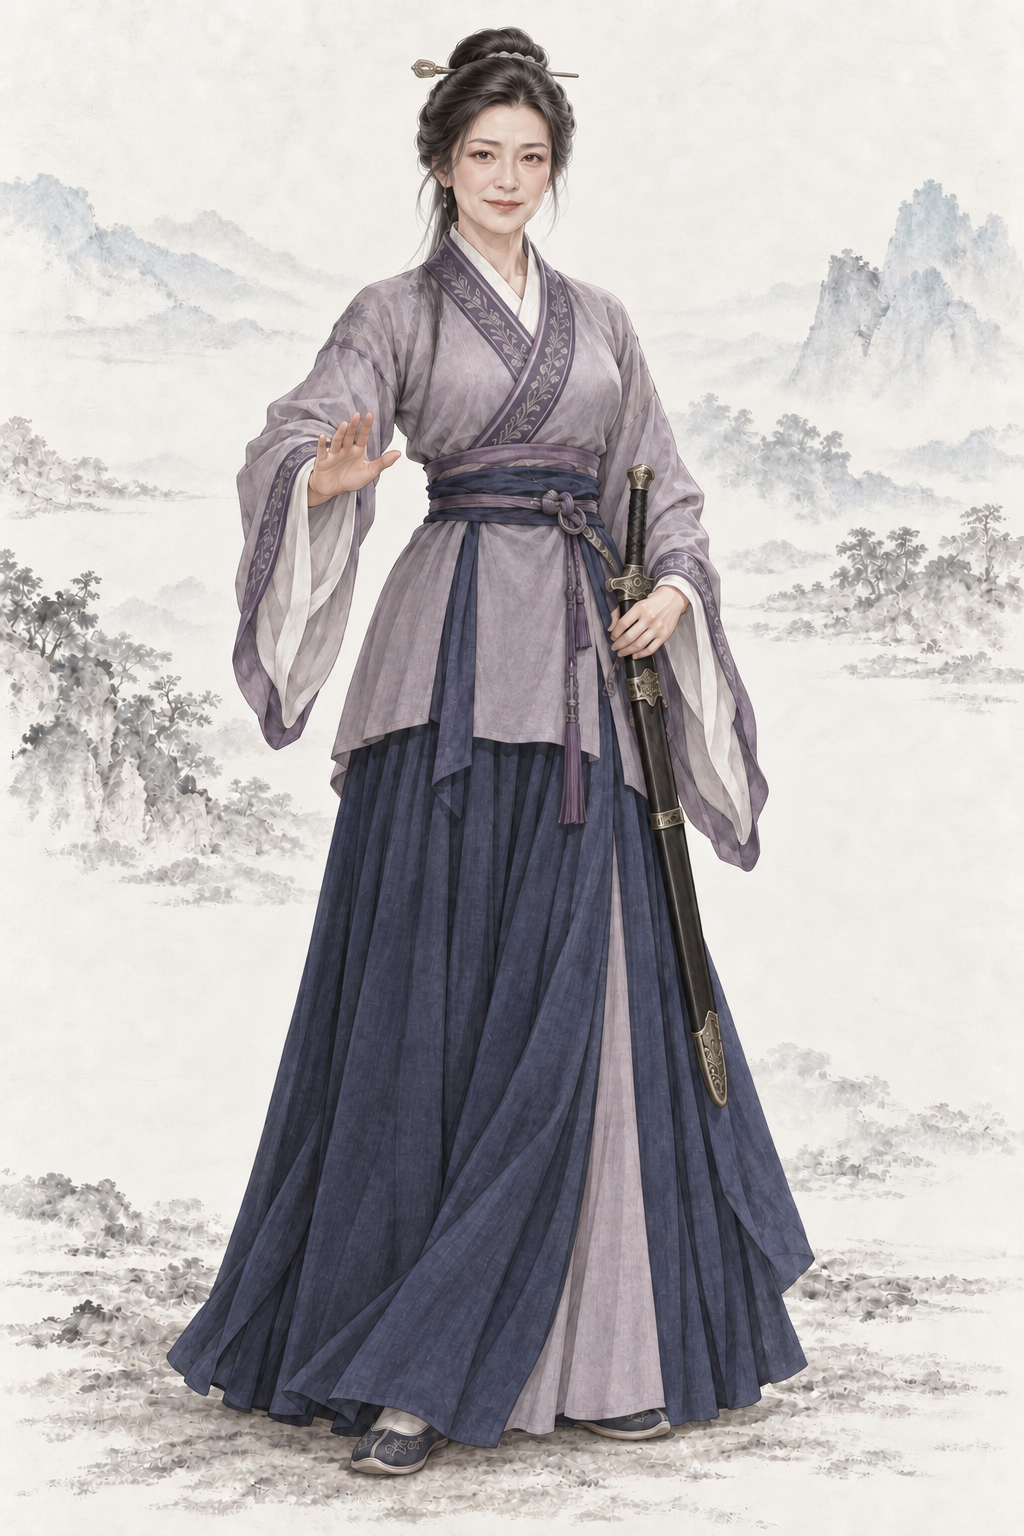
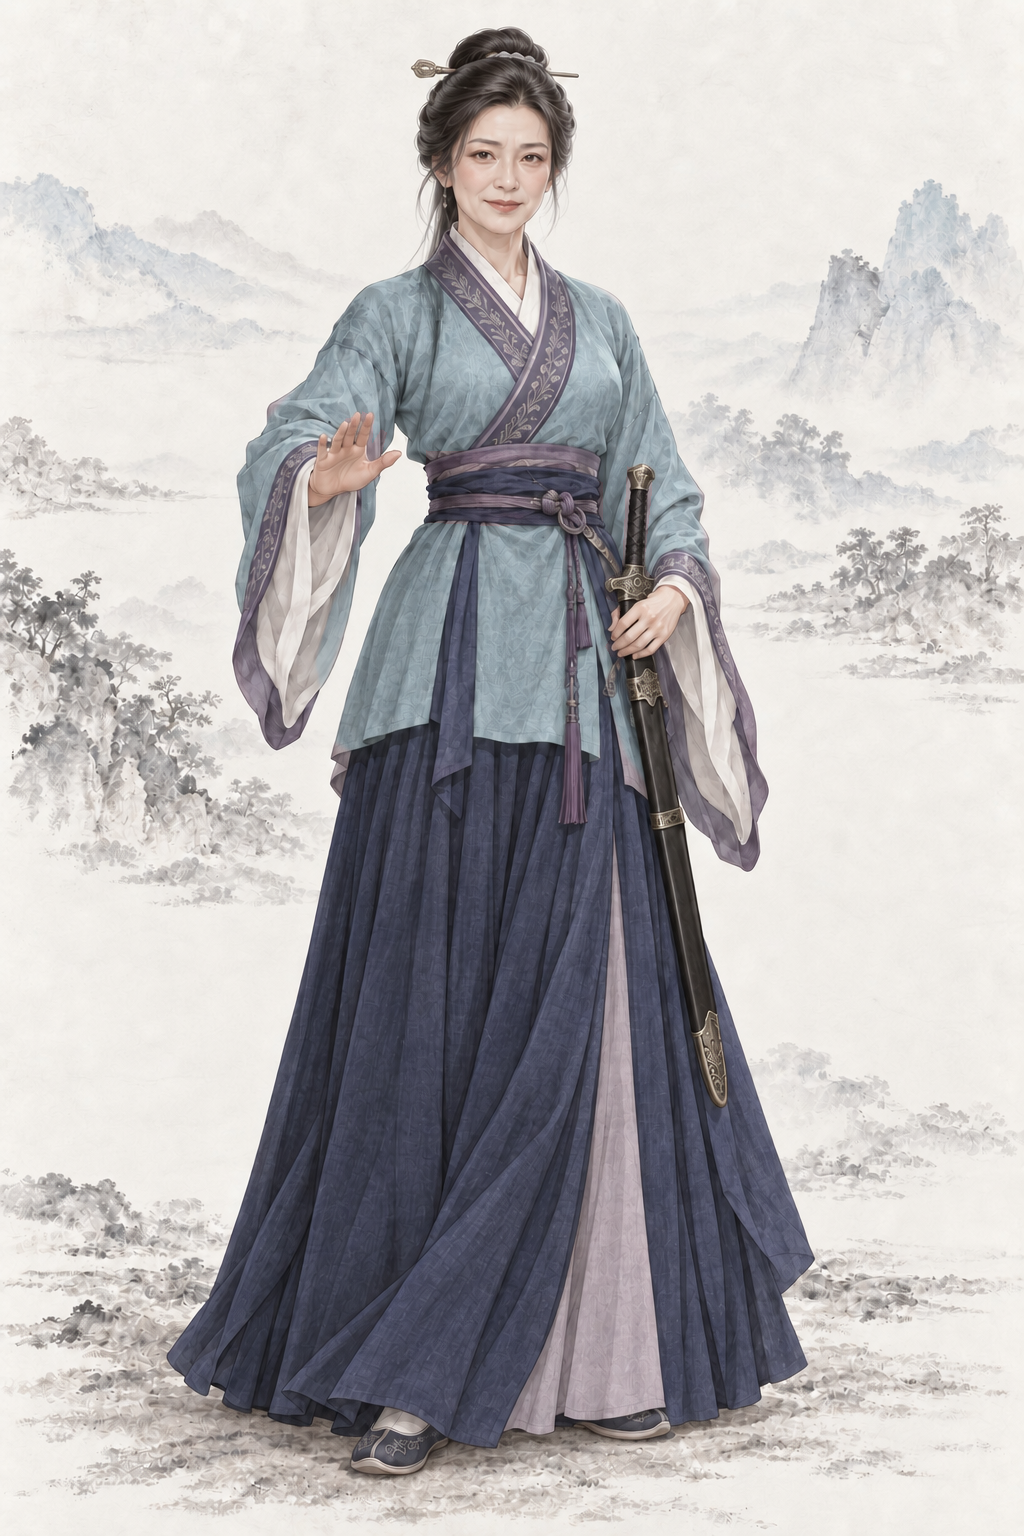
assets: AR-82 原著核对返修 宁中则华山行剑阶段上衣改素青
宁中则华山行剑阶段上衣改素青；原著摘句已同步提示词；蒙版外变化0像素。

Executed-By: Codex gpt-6.1-sol（AR-82）

diff --git a/assets/default/prompts/characters/ch05-xiaoao/npc_ningzhongze.md b/assets/default/prompts/characters/ch05-xiaoao/npc_ningzhongze.md
@@ -19,6 +19,12 @@ realism_revision: user_identity_pose_20261001
 
 # 宁中则 · 人物写实修正
 
+## AR-82 当前定稿要求
+
+只将上身温灰紫上衣的布料主色改为素青色（柔和青蓝）；衣形、衣缘、褶皱、腰带、下裙、剑、双手、头脸与发髻保持原样。对应健在华山行剑基础阶段的青衫，不声称全书从不换衣。
+
+以上为当前原著核对后的要求，覆盖下文旧版中与之冲突的服饰、器物、伤残、光线和体态描述。
+
 ## 人物与阶段
 
 - subject_id：npc_ningzhongze
@@ -74,3 +80,8 @@ FINAL CHECK: one 宁中则 with distinct TEXT-DEFINED ORIGINAL FACE; MATURE MOTH
 - 采用作者授权宽松自查；偏差如实记录，candidate不代表approved。
 - 源PNG通常为1024×1536 RGB；其他原生2:3尺寸如实登记，原字节保存，不裁切、重编码、放大或去除溯源。
 - 完整请求、实际参考哈希及旧版本备份见 `.agents/coord/portrait-generation/identity-20261001/por_npc_ningzhongze__ch05_prime_huashan_base.prepared.json`。
+
+## 原著依据
+
+- 《笑傲江湖》九《邀客》：“一身青衫化成了一片青影”（https://xuges.com/WUXIA/jinyong/xajh/066.htm）
+- AR-82 返修约束：只将上身温灰紫上衣的布料主色改为素青色（柔和青蓝）；衣形、衣缘、褶皱、腰带、下裙、剑、双手、头脸与发髻保持原样。对应健在华山行剑基础阶段的青衫，不声称全书从不换衣。
